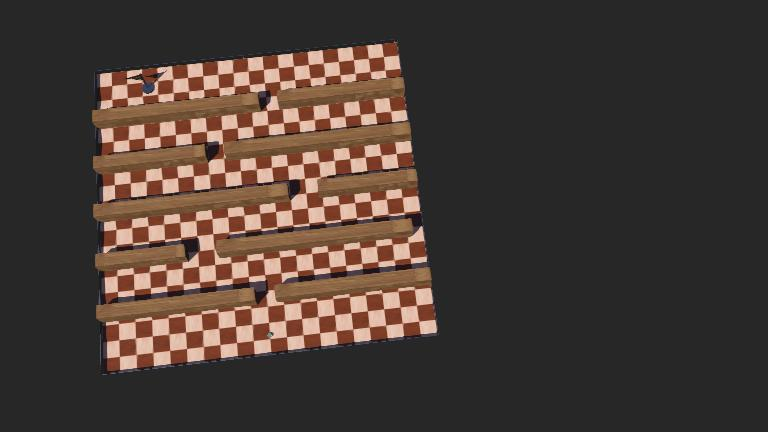
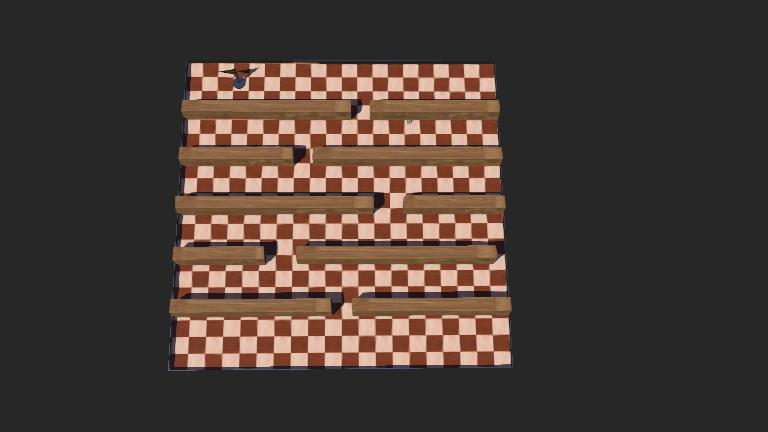
add escenario simple y carpeta VIDEO + readme

diff --git a/controllers/controlador_navegacion_global/scenarios.py b/controllers/controlador_navegacion_global/scenarios.py
@@ -12,9 +12,10 @@ SCENARIOS = {
         'goal': (0.0, -1.5),
         'bounds': (-2.5, 2.5, -2.5, 2.5),
         'obstacles': [
+            # pared continua (3 cajas pegadas, sin huecos) para forzar rodeo en U
+            (-0.6, 0.05, 0.3, 0.3),
             (0.0, 0.05, 0.3, 0.3),
-            (0.95, 0.05, 0.3, 0.3),
-            (-0.99, 0.05, 0.3, 0.3),
+            (0.6, 0.05, 0.3, 0.3),
         ],
     },
     'escenario_complejo': {

diff --git a/README.md b/README.md
@@ -28,12 +28,9 @@ Diseñar e implementar en Webots un robot diferencial (e-puck) capaz de planific
 ## 4. Escenarios de prueba
 
 ### 4.1. Escenario simple (`escenario_simple.wbt`)
-TODO: completar esta sección cuando el escenario quede cerrado. Debe incluir:
-- Descripción del layout final (cantidad y disposición de obstáculos).
-- Coordenadas de inicio y meta (`scenarios.py`).
-- Una captura cenital del escenario en Webots.
+Un único obstáculo: 3 cajas de madera pegadas entre sí (sin huecos), formando una pared continua de 1.8 m de largo en `y ≈ 0.05`. El robot inicia en `(0.11647, 0.881111)`, sobre la pared, y la meta está en `(0.0, -1.5)`, debajo — como la pared bloquea el paso directo, el A* debe rodear uno de sus extremos, generando la maniobra de "vuelta en U" planteada para este escenario.
 
-> Nota interna: con la disposición actual (3 cajas con huecos de ~35 cm entre ellas) el A* probablemente atraviesa por el hueco más cercano en vez de rodear la fila. Si se busca que el robot ejecute una maniobra de "vuelta en U", las cajas deben quedar pegadas (sin hueco) para forzar el rodeo por un extremo.
+![Escenario simple](Image/Imagen%20simple.png)
 
 ### 4.2. Escenario complejo (`escenario_complejo.wbt`)
 Laberinto simple de 5 "calles" verticales separadas por paredes (`WoodenBox`), cada una con una puerta de paso (offset distinto en cada pared), de modo que el robot debe avanzar y desviarse calle por calle hasta alcanzar la meta marcada con `YoubotFlag` en `(2.14, 1.66)`. El robot inicia en `(-2.2, 0.0)` y debe llegar únicamente hasta la meta (sin mapear ni explorar el resto del entorno).
@@ -87,21 +84,27 @@ Tabla sugerida (una fila por escenario, promediando varias corridas):
 
 | Métrica | Escenario simple | Escenario complejo |
 |---|---|---|
-| Tiempo hasta la meta (s) | | 127.2 (corrida 1) |
-| Longitud ruta planificada (m) | | 9.42 (corrida 1) |
-| Longitud trayectoria ejecutada (m) | | 9.52 (corrida 1) |
-| Diferencia ruta vs. trayectoria (m) | | 0.10 (corrida 1) |
-| N° de activaciones de evitación de obstáculos | | |
-| Colisiones | | |
-| % de ejecuciones exitosas | | |
+| Tiempo hasta la meta (s) | 42.7 | 127.2 |
+| Longitud ruta planificada (m) | 3.51 | 9.42 |
+| Longitud trayectoria ejecutada (m) | 3.35 | 9.52 |
+| Diferencia ruta vs. trayectoria (m) | -0.16 | +0.10 |
+| N° de activaciones de evitación de obstáculos | 0 | |
+| Colisiones | 0 | 0 |
+| % de ejecuciones exitosas | 100% (3/3) | 100% (3/3) |
 
-> Nota: la fila "escenario complejo" tiene un solo dato de muestra (corrida 1, 27 waypoints). Faltan ≥2 corridas más por escenario para promediar y sacar el % de éxito.
+> Nota: ambos escenarios se corrieron 3 veces (mismas condiciones iniciales) y dieron resultados idénticos en las 3 — el sistema es determinista en este entorno (sin ruido en sensores ni perturbaciones), así que las 3 corridas valen como 3/3 exitosas, no como promedio de valores distintos.
+
+**Comparación:** el escenario complejo requiere una ruta ~2.7× más larga (9.42 vs. 3.51 m) y ~3× más tiempo (127.2 vs. 42.7 s) que el simple, consistente con tener que cruzar 5 corredores con puertas angostas en vez de rodear un único obstáculo. El signo de la diferencia ruta vs. trayectoria también cambia: en el complejo la trayectoria ejecutada es *más larga* que la planificada (+0.10 m, por las correcciones de la evitación reactiva al pasar puertas estrechas), mientras que en el simple es *más corta* (-0.16 m), porque el robot entra en la tolerancia de meta (`GOAL_TOLERANCE = 0.20 m`) antes de completar el último tramo planificado y se detiene ahí.
 
 Falta también: registrar `(x, y)` estimado en cada paso (no se loguea actualmente, solo la pose final) si quieren graficar ruta planificada vs. trayectoria real — se puede agregar un logger CSV simple en el loop principal si lo necesitan.
 
 ## 8. Capturas, gráficos y video
 
-TODO — ver checklist más abajo.
+- Capturas cenitales de ambos escenarios: ver sección 4 (`Image/Imagen simple.png`, `Image/Imagen Complejo.png`).
+- TODO: gráfico ruta planificada vs. trayectoria ejecutada (pendiente, otro integrante lo está haciendo).
+- Video demostrativo (ejecución completa, inicio a meta):
+  - [Escenario simple](Video/escenario_simple.mp4)
+  - [Escenario complejo](Video/escenario_complejo.mp4)
 
 ## 9. Instrucciones de ejecución
 